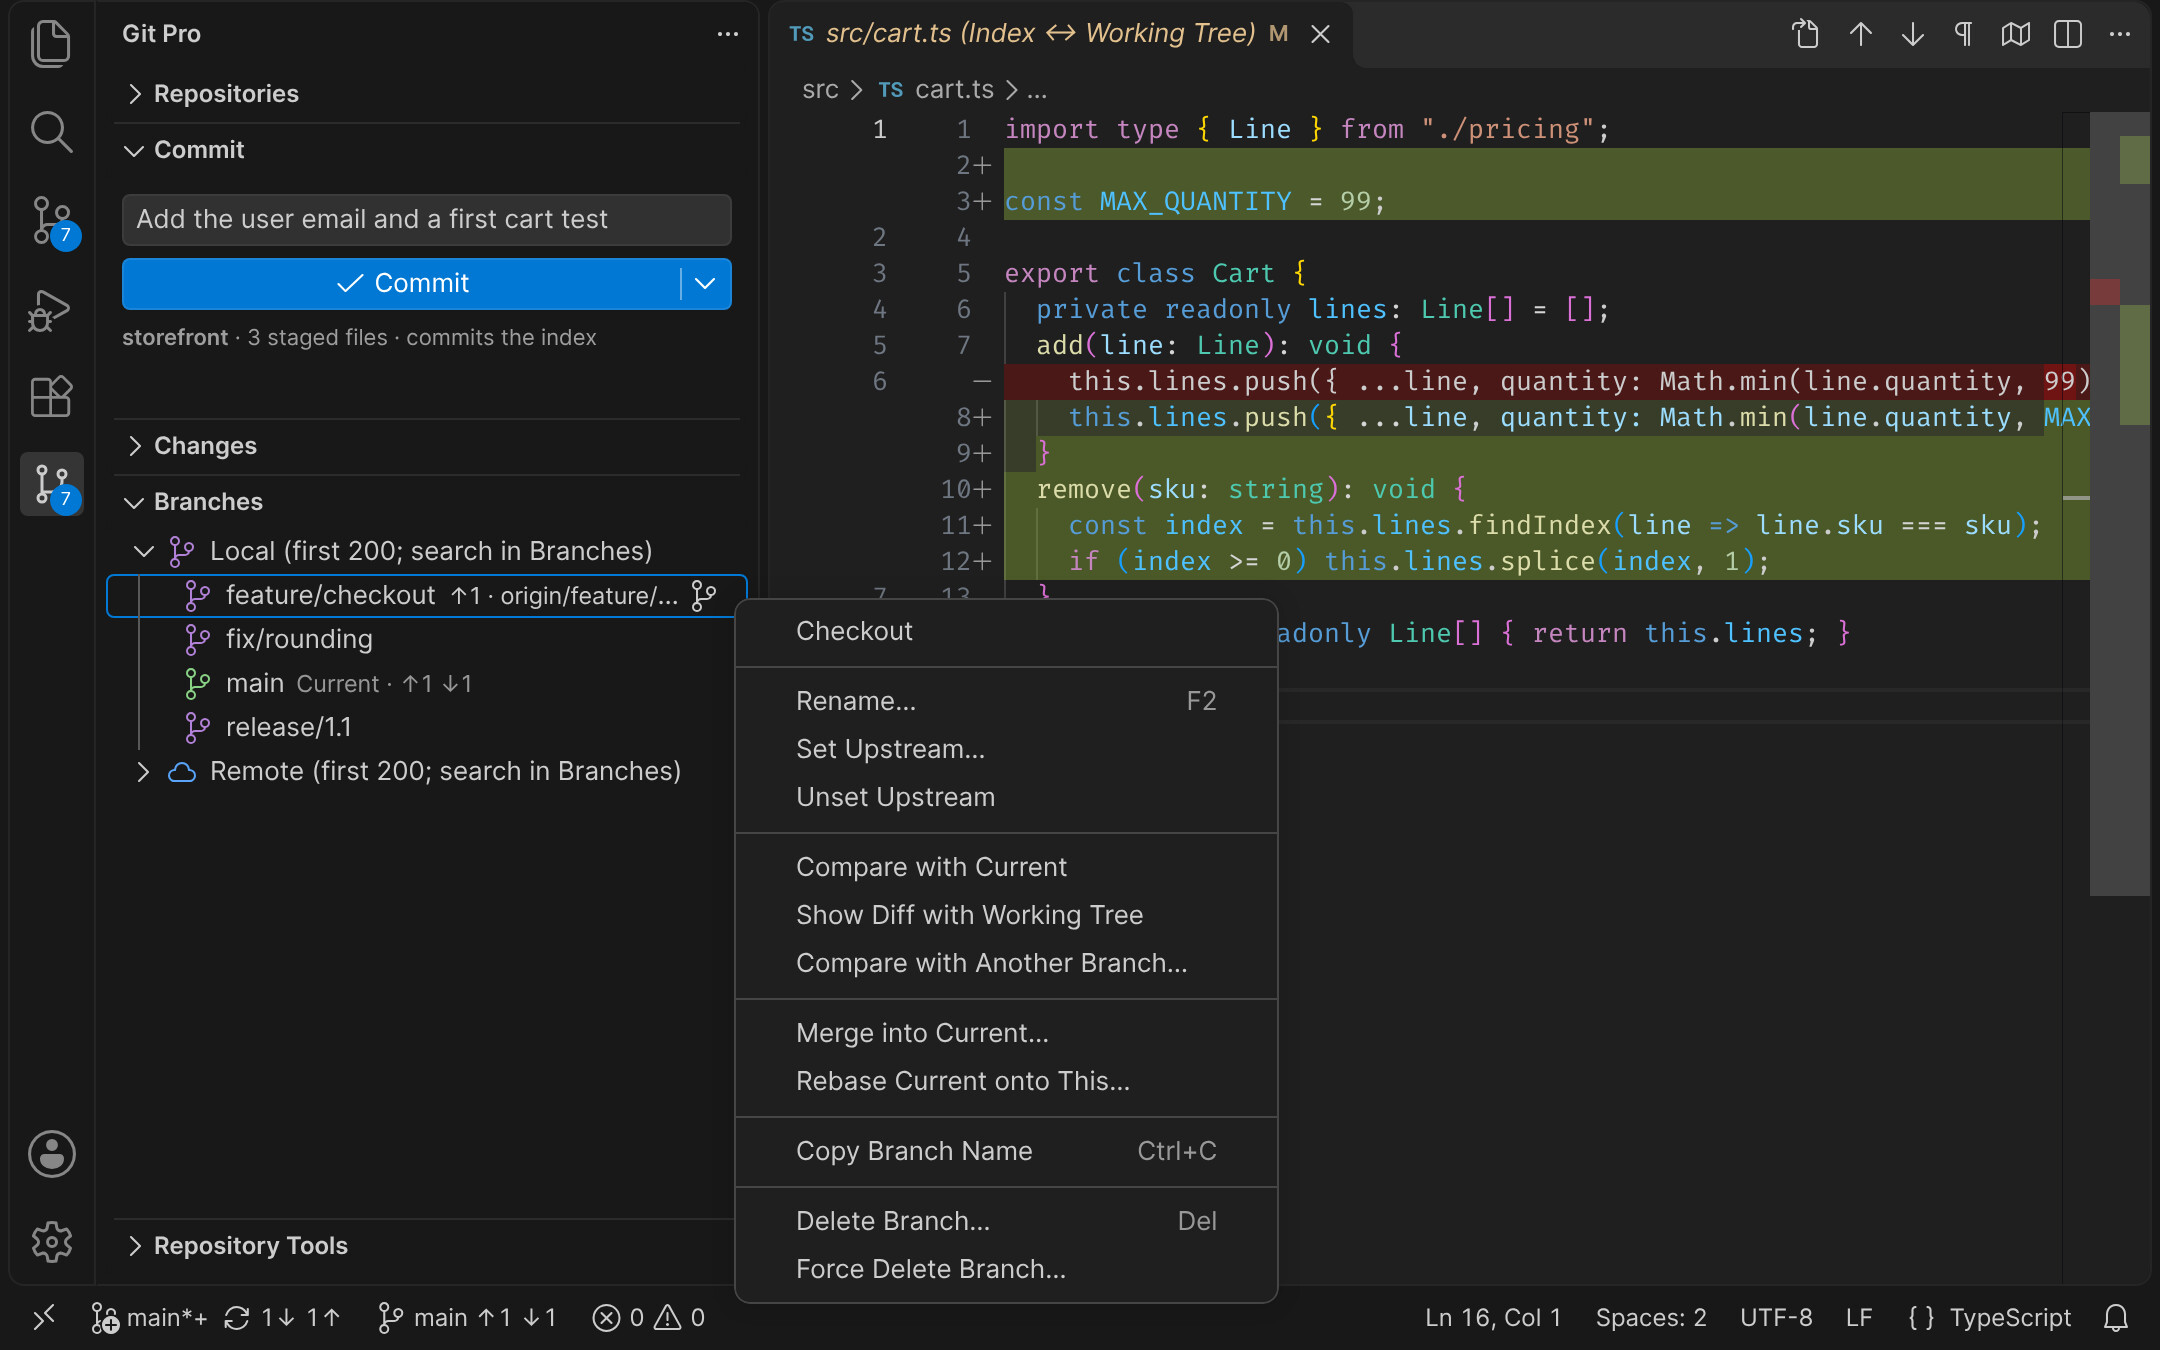
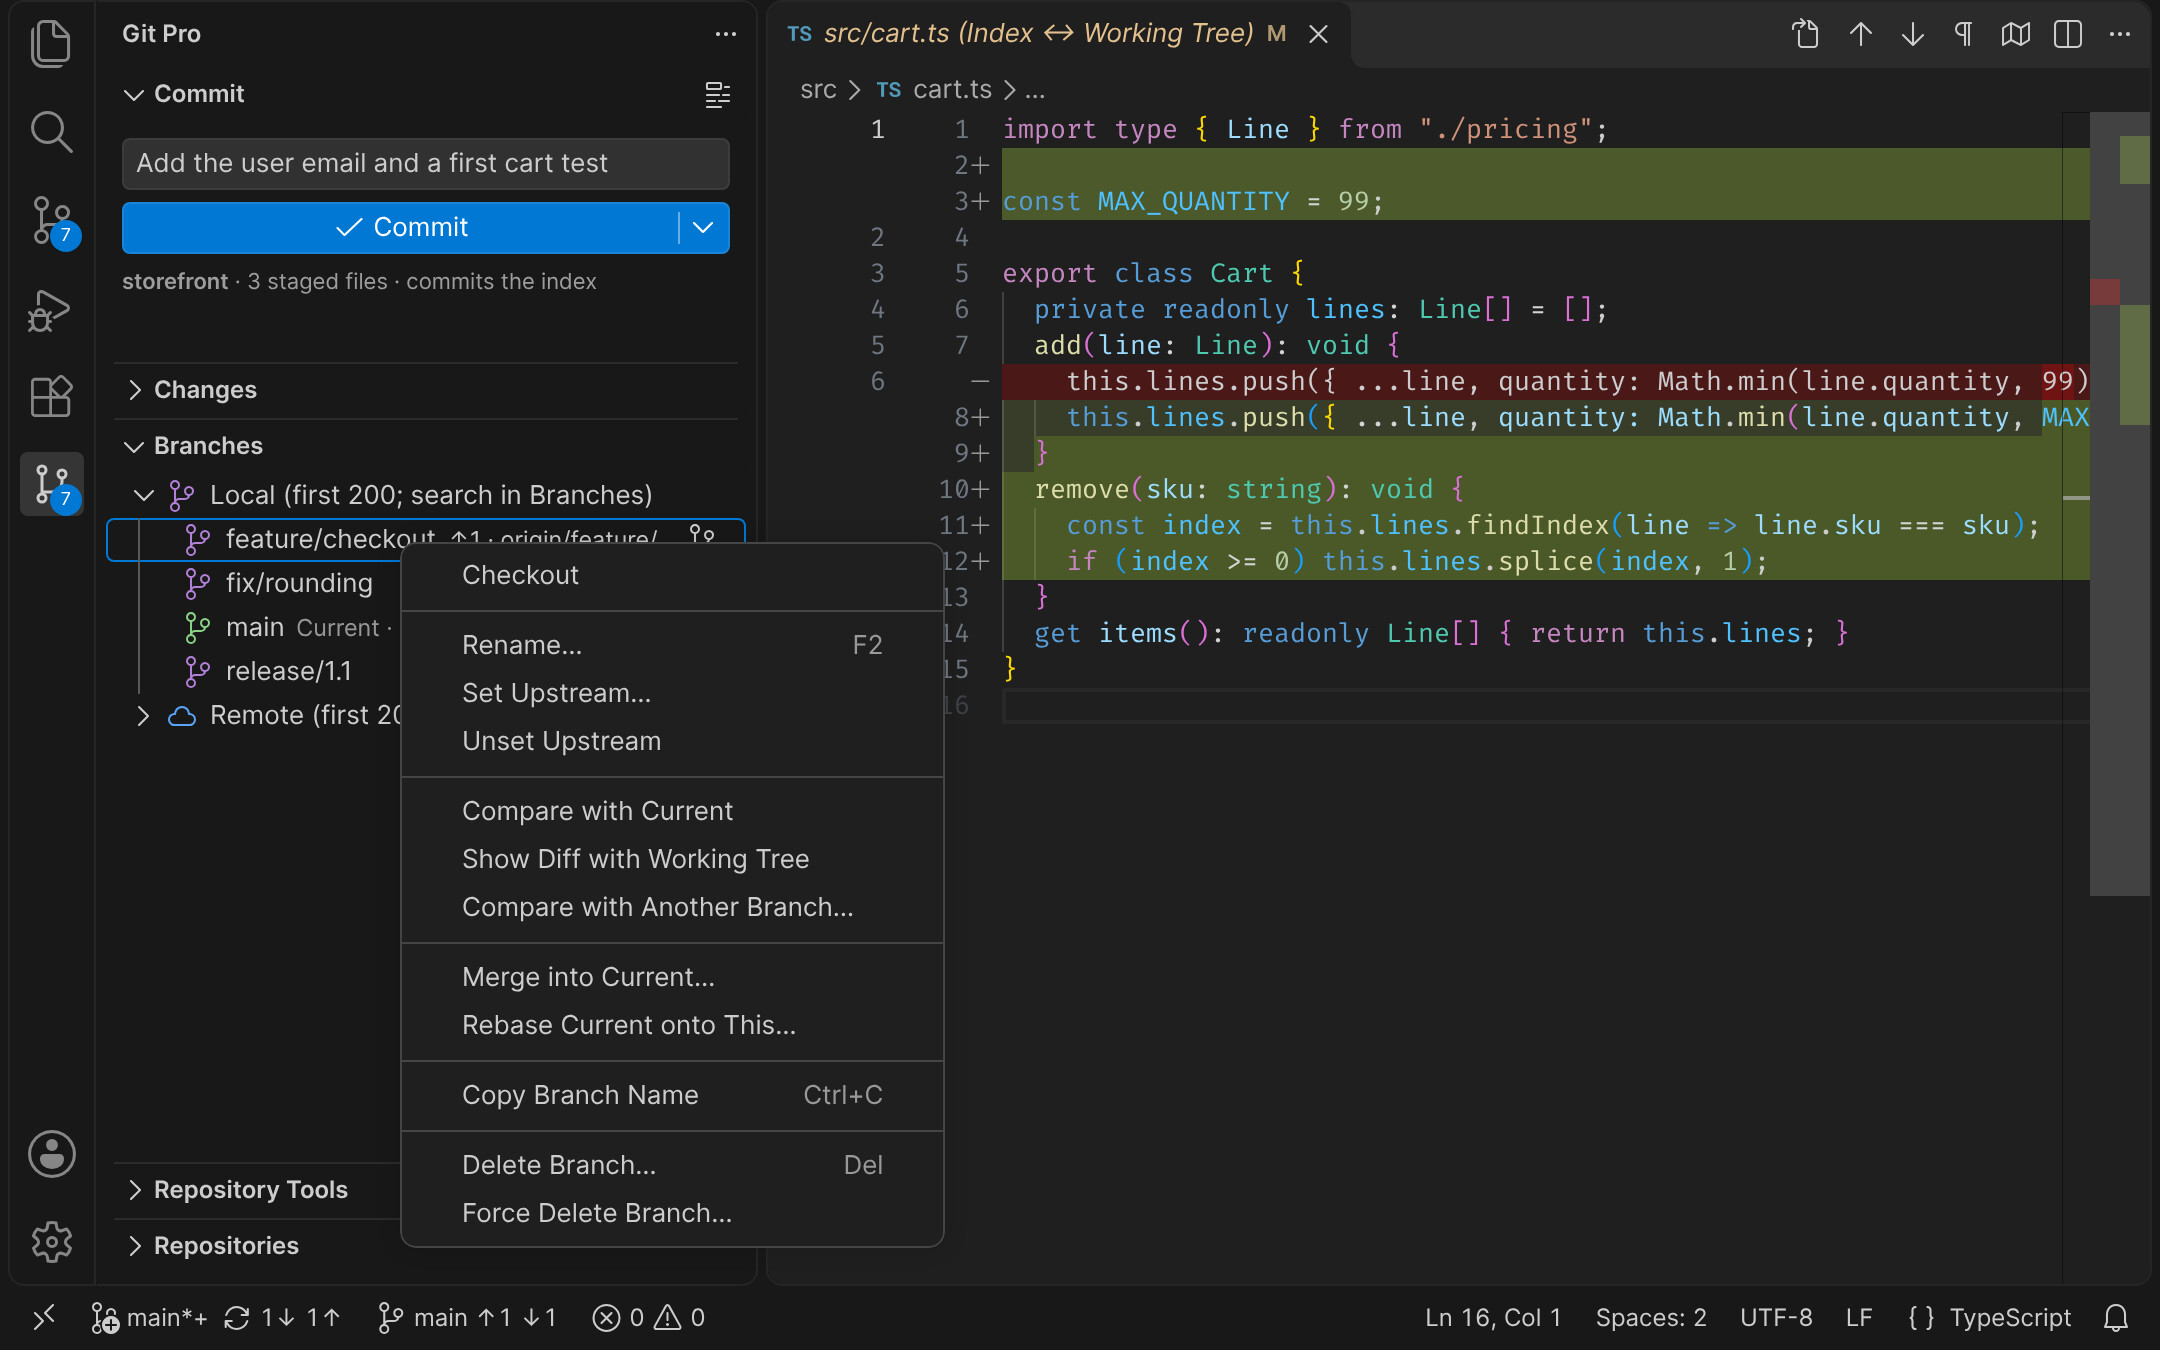
Retake the sidebar screenshots for the layout of 0.3.1 and later
Repositories moved to the bottom of the sidebar in 0.3.1, so Commit and Changes now start higher: the tour clicked where they used to be. The images show the Commit view with its Conventional Commit… button.

diff --git a/test/extension/screenshots.ts b/test/extension/screenshots.ts
@@ -102,9 +102,9 @@ async function arrange(): Promise<void> {
 
 /** Where things are in the 2160 x 1350 picture, with the side bar widened by dragging its edge. Look at the probes (`_*.png` in .shots/) after any change of layout. */
 const at = {
-  sash: { x: 636, y: 700 }, sashTo: 760,
-  message: { x: 396, y: 227 },
-  rows: { cart: { x: 330, y: 767 }, feature: { x: 734, y: 595 } },
+  sash: { x: 639, y: 700 }, sashTo: 760,
+  message: { x: 396, y: 163 },
+  rows: { cart: { x: 330, y: 703 }, feature: { x: 400, y: 539 } },
   /** Empty editor space: a click there puts the focus in the editor, and the pointer rests there. */
   quiet: { x: 1500, y: 1000 },
 };
@@ -130,8 +130,8 @@ async function project(api: ExtensionDiagnostics): Promise<void> {
 
     // Branches: how far each branch is from its upstream, and its right-click menu.
     await exec('gitPro.branchesView.focus'); await sleep(1200);
-    await pointer.click(183, 446); await sleep(800); // collapses Changes
-    await pointer.click(143, 551); await sleep(1200); // opens the Local group
+    await pointer.click(183, 390); await sleep(800); // collapses Changes
+    await pointer.click(143, 496); await sleep(1200); // opens the Local group
     await pointer.click(at.rows.feature.x, at.rows.feature.y, 3); await sleep(1000);
     await capture('branches');
     await keys('Escape');
